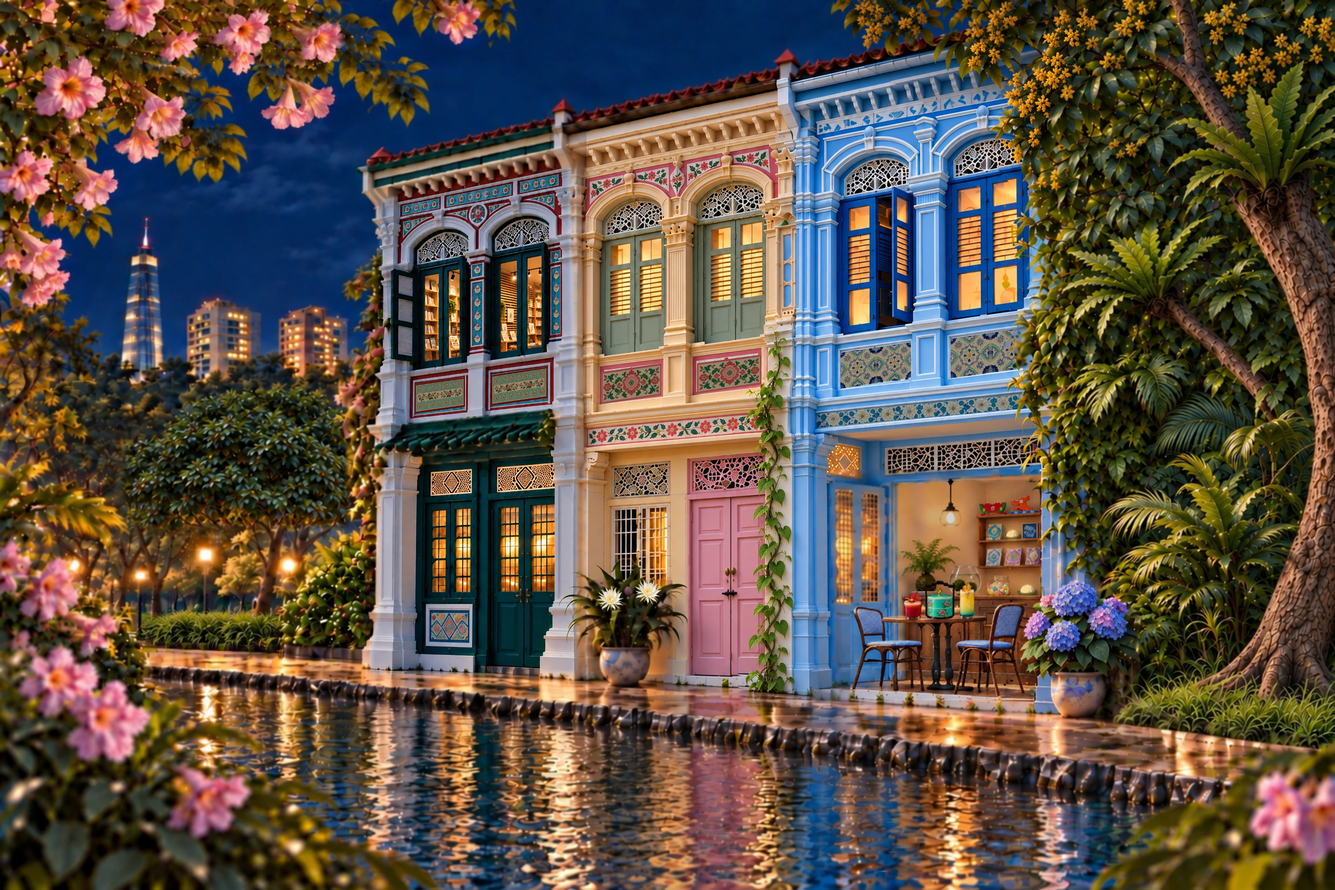
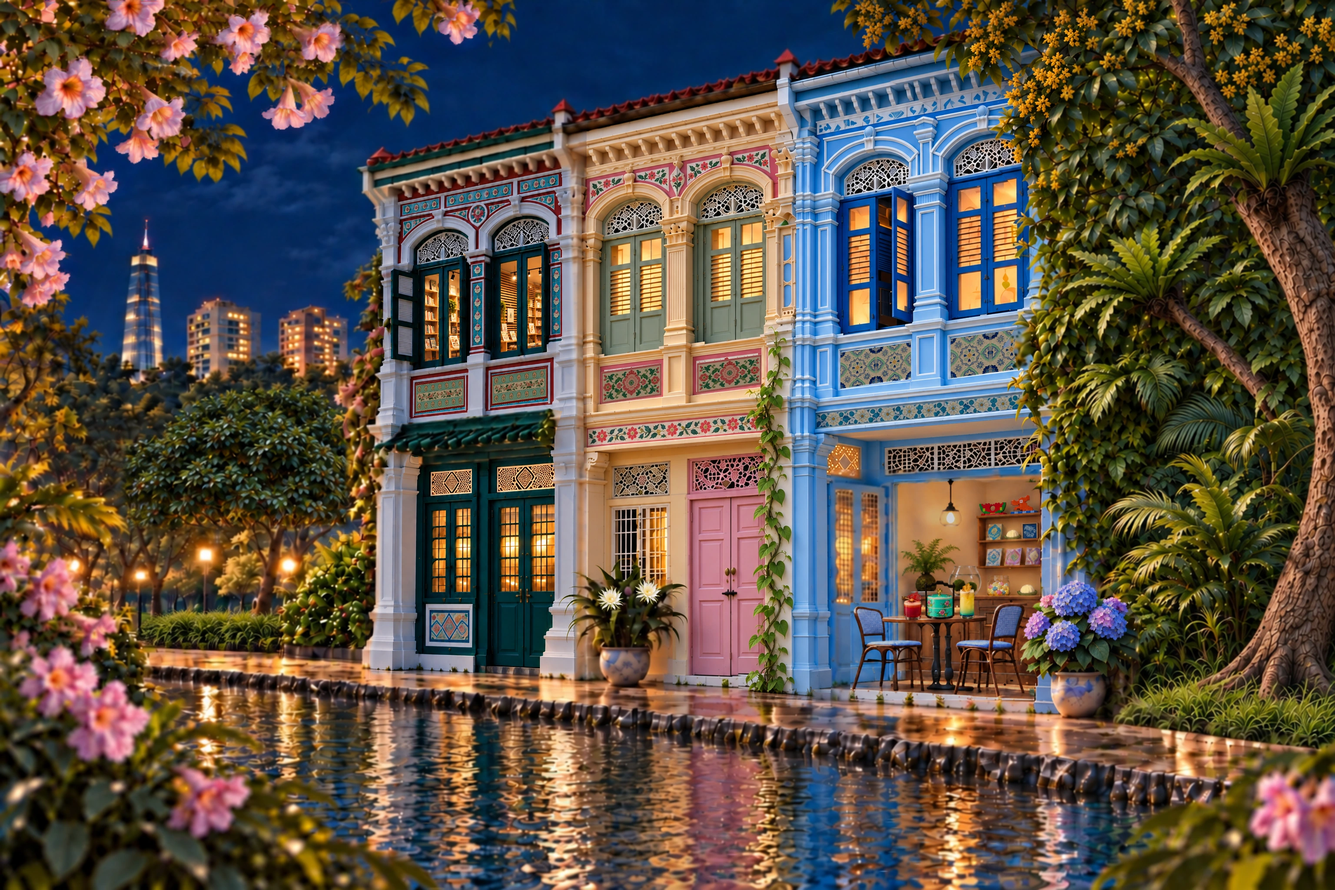
Match tree blossoms to falling flower pink
The trumpet blossoms now share the falling flowers' softer pink palette
in both day and night scenes. Refresh the loading previews to match.

diff --git a/index.html b/index.html
@@ -98,7 +98,7 @@
           <div class="scene-stage">
             <img
               class="scene-fallback"
-              src="assets/scene/scene-preview-day-2x.webp?v=20260919-131"
+              src="assets/scene/scene-preview-day-2x.webp?v=20260919-132"
               width="3072"
               height="2048"
               alt="Three ornate Peranakan shophouses beside reflective rainwater, with a skyscraper and two HDB blocks in the distance."
@@ -209,7 +209,7 @@
               document.querySelector(".clock-value").textContent = label;
               const night = minutes < 390 || minutes >= 1170;
               const fallback = document.querySelector(".scene-fallback");
-              fallback.src = `assets/scene/scene-preview-${night ? "night" : "day"}-2x.webp?v=20260919-131`;
+              fallback.src = `assets/scene/scene-preview-${night ? "night" : "day"}-2x.webp?v=20260919-132`;
               const range = document.querySelector("#environment-time");
               range.value = String(minutes);
               range.setAttribute("aria-valuetext", label);
@@ -855,6 +855,6 @@
       </footer>
     </div>
 
-    <script type="module" src="app.js?v=20260919-130"></script>
+    <script type="module" src="app.js?v=20260919-132"></script>
   </body>
 </html>

diff --git a/scene.js b/scene.js
@@ -134,8 +134,8 @@ export async function createScene({ onThemeChange } = {}) {
       "panel-white-turquoise.png",
       "panel-pink-rosette.png",
       "panel-blue-turquoise-reference.png",
-      "canopy-day-v2.png",
-      "canopy-night-v2.png",
+      "canopy-day-v3.png",
+      "canopy-night-v3.png",
       "angsana-flower.png",
       "ceramics-gallery-interior-v2.png",
       "bistro-room-cyanotype-gems.png",

diff --git a/app.js b/app.js
@@ -1,5 +1,5 @@
 import { minutesInZone, nightAt } from "./scene-model.js";
-import { createScene } from "./scene.js?v=20260919-130";
+import { createScene } from "./scene.js?v=20260919-132";
 import { setupEvalTiles } from "./eval-tiles.js?v=20260912-24";
 
 const root = document.documentElement;
